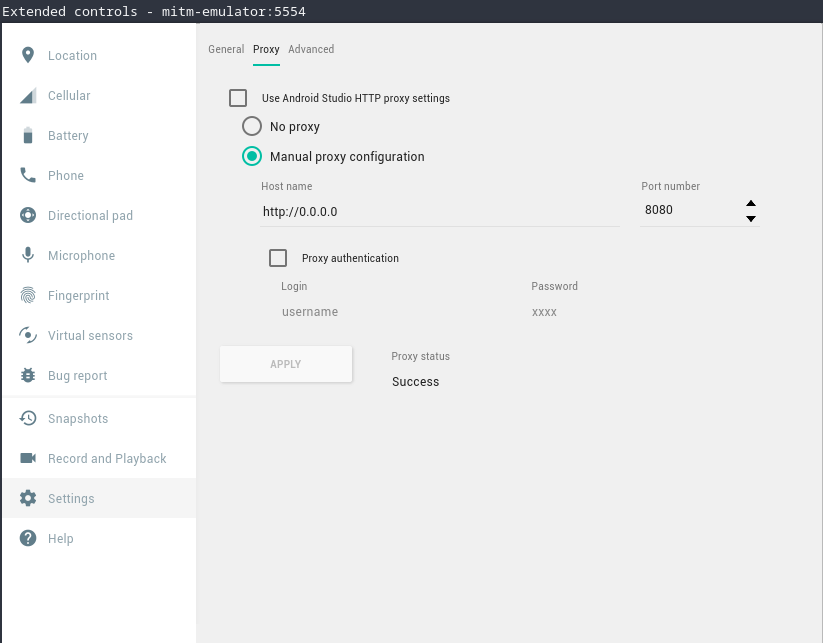
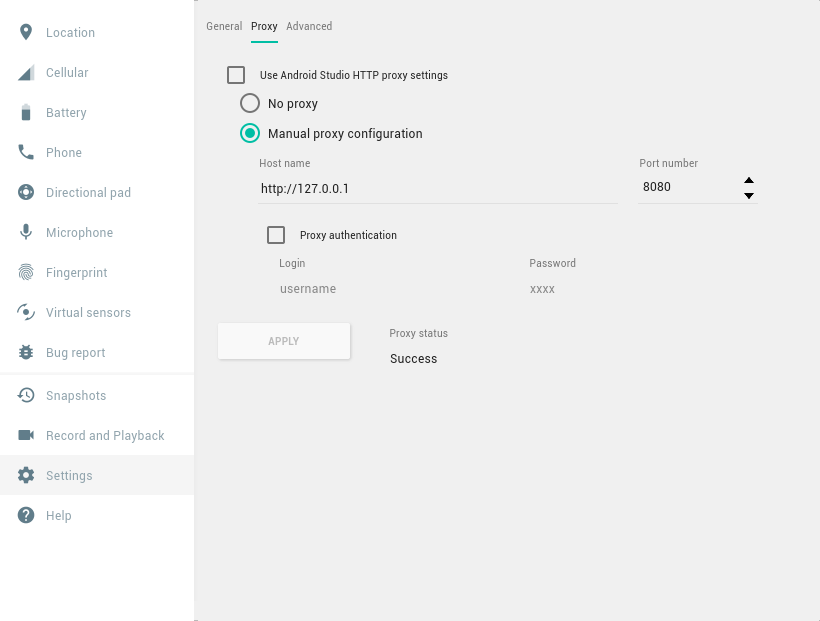
Add MITM drawing, fix wrong IP, final writing fixes

diff --git a/posts/reverse-engineer-android-app-api.html b/posts/reverse-engineer-android-app-api.html
@@ -124,10 +124,10 @@
 </blockquote>
 <p>Normally we can’t see the traffic coming out of an App. It’s <strong>encrypted</strong>, and therefore it looks like random garbage to us. This keeps your information safe, at least during the transaction (what each ends does with the information and how they protect it is a different matter).</p>
 <p>You might have heard about <strong>digital certificates</strong>. They are what make this encryption possible, and in order to know what certificates you can trust or not your devices depend on a <strong>Certificate Authority</strong> (CA). These are actors that can create digital certificates</p>
-<p>But anyone can <em>be</em> a CA, or they can create one at least, so how do we know which CAs can we trust or not? Usually, your devices/applications come with a hardcoded set of CAs that they trust by default. This is a <em>good enough</em> measure that <em>mostly works</em>, although these CAs then become very high value targets for hackers and you can believe some have been compromised before.</p>
+<p>But anyone can <em>be</em> a CA, or they can create one at least, so how do we know which CAs can we trust or not? Usually, your devices/applications come with a hardcoded set of CAs they trust by default. This is a <em>good enough</em> measure that <em>mostly works</em>, although these CAs then become very high value targets for hackers and you can believe some have been compromised before.</p>
 <p>So, back to our little project. We want to be able to snoop into what our target app and their backend are talking about. In order to do that, we are going to force an Android emulator into sending all its network traffic through us and then make it think it can trust us. How we will do that is by installing our own certificate as one of those default CAs. This way, we will be able to understand the encrypted HTTPS messages any app sends and receives. This is what is known as a <strong>“Man in the Middle attack”</strong> (MITM) in cyber-security.</p>
 <figure>
-<img src="" alt="Drawing of man in the middle" /><figcaption aria-hidden="true">Drawing of man in the middle</figcaption>
+<img src="https://edearth.github.io/imgs/reveng/mitm_diagram.jpg" alt="Drawing of man in the middle attack" /><figcaption aria-hidden="true">Drawing of man in the middle attack</figcaption>
 </figure>
 <p>When we are able to understand what app and backend are saying to each other, we will begin investigating the now exposed API. If we’re lucky, we might even have the chance to automate our daily app usage into a script. That way we won’t even have to open the app again.</p>
 <p>This post will be split in 3 parts:</p>
@@ -140,8 +140,8 @@
 <h3 id="install-the-tools">Install the tools</h3>
 <p>If you don’t have the Android platform tools, we will install them now. I’m using Arch, so I will use these AUR packages:</p>
 <ul>
-<li>[https://aur.archlinux.org/android-sdk.git]</li>
-<li>[https://aur.archlinux.org/android-sdk-platform-tools.git]</li>
+<li><a href="https://aur.archlinux.org/android-sdk.git">https://aur.archlinux.org/android-sdk.git</a></li>
+<li><a href="https://aur.archlinux.org/android-sdk-platform-tools.git">https://aur.archlinux.org/android-sdk-platform-tools.git</a></li>
 </ul>
 <p>You can install them like:</p>
 <div class="sourceCode" id="cb1"><pre class="sourceCode sh"><code class="sourceCode bash"><span id="cb1-1"><a href="#cb1-1" aria-hidden="true"></a><span class="fu">git</span> clone https://aur.archlinux.org/android-sdk.git</span>
@@ -157,7 +157,7 @@
 <div class="sourceCode" id="cb3"><pre class="sourceCode sh"><code class="sourceCode bash"><span id="cb3-1"><a href="#cb3-1" aria-hidden="true"></a><span class="ex">brew</span> tap caskroom/cask</span>
 <span id="cb3-2"><a href="#cb3-2" aria-hidden="true"></a><span class="ex">brew</span> cask install android-sdk</span></code></pre></div>
 <h3 id="install-the-system-image">Install the system image</h3>
-<p>Once we have the tools we need, we can download the system image. Since we want to download an app from the Play Store, we will need that the image we use includes the Google API. We want to find a an image containing “google_apis”, but not “google_apis_playstore”. Why not get the one that comes with the Play Store pre-installed, you ask? Well, those are production builds and we won’t be able to root them. We will need rooting them later.</p>
+<p>Once we have the tools we need, we can download the system image. Since we want to download an app from the Play Store, we will need that the image we use includes the Google API. We want to find a an image containing “google_apis”, but not “google_apis_playstore”. Why not get the one that comes with the Play Store pre-installed, you ask? Well, those are production builds and we won’t be able to root them. We will need rooting our emulator later.</p>
 <p>I chose the “android-25” one, but you can choose another one if you want.</p>
 <div class="sourceCode" id="cb4"><pre class="sourceCode bash"><code class="sourceCode bash"><span id="cb4-1"><a href="#cb4-1" aria-hidden="true"></a><span class="ex">sdkmanager</span> --list <span class="kw">|</span> <span class="fu">grep</span> <span class="st">&quot;google_apis&quot;</span> <span class="co">#select another image from this list if you want</span></span>
 <span id="cb4-2"><a href="#cb4-2" aria-hidden="true"></a><span class="fu">sudo</span> sdkmanager --install <span class="st">&quot;system-images;android-25;google_apis;x86_64&quot;</span></span></code></pre></div>
@@ -167,7 +167,7 @@
 <p>And open it with:</p>
 <div class="sourceCode" id="cb6"><pre class="sourceCode bash"><code class="sourceCode bash"><span id="cb6-1"><a href="#cb6-1" aria-hidden="true"></a><span class="ex">emulator</span> -avd mitm-emulator <span class="kw">&amp;</span></span></code></pre></div>
 <h3 id="installing-google-play">Installing Google Play</h3>
-<p>Download Open GApps for your system image from [https://opengapps.org/]. We will need them to download the target app from the Play Store. We can extract it with:</p>
+<p>Download Open GApps for your system image from <a href="https://opengapps.org/">https://opengapps.org/</a>. We will need them to download the target app from the Play Store. We can extract it with:</p>
 <div class="sourceCode" id="cb7"><pre class="sourceCode bash"><code class="sourceCode bash"><span id="cb7-1"><a href="#cb7-1" aria-hidden="true"></a><span class="fu">unzip</span> open_gapps-*.zip <span class="st">&#39;Core/*&#39;</span></span>
 <span id="cb7-2"><a href="#cb7-2" aria-hidden="true"></a><span class="fu">rm</span> Core/setup*</span>
 <span id="cb7-3"><a href="#cb7-3" aria-hidden="true"></a><span class="ex">lzip</span> -d Core/*.lz</span>
@@ -188,7 +188,7 @@
 <span id="cb10-2"><a href="#cb10-2" aria-hidden="true"></a><span class="ex">adb</span> shell start</span></code></pre></div>
 <p>After the loading finishes, you will see the Play Store in your home screen.</p>
 <h3 id="install-the-target-app">Install the target app</h3>
-<p>This should be the easiest step. Just login to the Play Store and download your target app.</p>
+<p>This should be the easiest step. Just log into the Play Store and download the target app.</p>
 <p>Make sure you can open it before proceeding.</p>
 <h2 id="setting-up-the-proxy">Setting up the proxy</h2>
 <h3 id="install-mitm-proxy">Install MITM proxy</h3>
@@ -198,19 +198,19 @@
 <p>It seems on Ubuntu you will need to install pip and then install mitmproxy using it.</p>
 <div class="sourceCode" id="cb12"><pre class="sourceCode bash"><code class="sourceCode bash"><span id="cb12-1"><a href="#cb12-1" aria-hidden="true"></a><span class="fu">sudo</span> apt install python3-pip</span>
 <span id="cb12-2"><a href="#cb12-2" aria-hidden="true"></a><span class="fu">sudo</span> pip3 install mitmproxy</span></code></pre></div>
-<p>On Mac, just use brew again:</p>
+<p>On Mac, just use Brew again:</p>
 <div class="sourceCode" id="cb13"><pre class="sourceCode bash"><code class="sourceCode bash"><span id="cb13-1"><a href="#cb13-1" aria-hidden="true"></a><span class="ex">brew</span> install mitmproxy</span></code></pre></div>
-<p>To test it out, let’s start the emulator and open its settings by clicking on the 3 dots button. Then, navigate to the <strong>settings</strong> section, select the <strong>Proxy tab</strong> and configure to use <code>http://0.0.0.0:8080</code> as a proxy, like in the image below.</p>
+<p>To test it out, let’s start the emulator and open its settings by clicking on the 3 dots button. Then, navigate to the <strong>settings</strong> section, select the <strong>Proxy tab</strong> and configure it to use <code>http://127.0.0.1:8080</code> as a proxy, like in the image below.</p>
 <figure>
-<img src="https://edearth.github.io/imgs/reveng/emulator_proxy_config.png" alt="a screenshot shows the emulator proxy configured to use http://0.0.0.0:8080" /><figcaption aria-hidden="true">a screenshot shows the emulator proxy configured to use http://0.0.0.0:8080</figcaption>
+<img src="https://edearth.github.io/imgs/reveng/emulator_proxy_config.png" alt="a screenshot shows the emulator proxy configured to use http://127.0.0.1:8080" /><figcaption aria-hidden="true">a screenshot shows the emulator proxy configured to use http://127.0.0.1:8080</figcaption>
 </figure>
-<p>Run mitmproxy with no arguments in a terminal, like this:</p>
-<div class="sourceCode" id="cb14"><pre class="sourceCode bash"><code class="sourceCode bash"><span id="cb14-1"><a href="#cb14-1" aria-hidden="true"></a><span class="ex">mitmproxy</span></span></code></pre></div>
+<p>Run mitmproxy listening in 127.0.0.1:8080 in a terminal, like this:</p>
+<div class="sourceCode" id="cb14"><pre class="sourceCode bash"><code class="sourceCode bash"><span id="cb14-1"><a href="#cb14-1" aria-hidden="true"></a><span class="ex">mitmproxy</span> --listen-host 127.0.0.1 --listen-port 8080</span></code></pre></div>
 <p>We can now go back to the emulator and navigate anywhere. You will see it’s almost as if your device lost connection, and if you try to use a web browser, a warning about your connection not being private will appear.</p>
 <figure>
 <img src="https://edearth.github.io/imgs/reveng/mitm_no_cert00.png" height="400" alt="a screenshot shows chrome browser warning the user its connection is not private" /><figcaption aria-hidden="true">a screenshot shows chrome browser warning the user its connection is not private</figcaption>
 </figure>
-<p>This happens because mitmproxy signs HTTPS traffic with its own certificate. (note: i need to double check this //TODO ) Since the emulator doesn’t trust that certificate (yet), it won’t even accept that response! If you go to the terminal where you launched mitmproxy, you should see something like this. Notice all the traffic is HTTP, there are no HTTPS messages.</p>
+<p>This happens because mitmproxy signs HTTPS traffic with its own certificate. Since the emulator doesn’t trust that certificate (yet), it won’t even accept that response! If you go to the terminal where you launched mitmproxy, you should see something like this. Notice all the traffic is HTTP, there are no HTTPS messages.</p>
 <figure>
 <img src="https://edearth.github.io/imgs/reveng/mitm_no_cert01.png" alt="a screenshot shows a get request to http google, redirected to https" /><figcaption aria-hidden="true">a screenshot shows a get request to http google, redirected to https</figcaption>
 </figure>
@@ -219,9 +219,9 @@
 </figure>
 <p>To continue, we will need to make the emulator trust mitmproxy’s Certificate Authority.</p>
 <h3 id="install-the-certificate-authority">Install the Certificate Authority</h3>
-<p>The way mitmproxy works is it has its own Certificate Authority. It uses it to generate certificates on the fly for whatever external resource the emulator asks for. It then uses those certificates to encrypt the messages sent to it, making it seem like the emulator is talking with the real server. In reality, though, it is decrypting and encrypting all the messages, so it knows <strong>everything</strong> the client and server are talking about. And neither of them knows it is spying on them.</p>
-<p>If you read the documentation for mitmproxy you will see there are official instructions on how to install the certificate on mobile devices: you visit “<code>mitm.it</code>” in the browser, download the certificate and install it. Then you can see HTTPS traffic normally… but just in the browser.</p>
-<p>If we want to read HTTPS traffic from native apps, we need to install it as a <strong>system certificate</strong>. We will need root privileges for that. So we will launch the emulator specifying:</p>
+<p>The way mitmproxy works is it has its own Certificate Authority. It uses it to generate certificates on the fly for whatever external resource the emulator asks for. It then uses those certificates to encrypt the messages sent to it, making it seem like the emulator is talking with the real server. In reality, though, it is decrypting and encrypting all the messages with its own certificates, so it knows <strong>everything</strong> the client and server are talking about. And neither of them knows it is spying on them.</p>
+<p>If you read the documentation for mitmproxy you will see there are official instructions on how to install the certificate on mobile devices: you visit “<code>mitm.it</code>” in the browser, download the certificate and install it. Then you can see decrypted HTTPS traffic in mitmproxy… but just the traffic generated by the browser.</p>
+<p>If we want to read HTTPS traffic from native apps, we need to install it as a <strong>system certificate</strong>. We will need root privileges for that, so we will launch the emulator specifying:</p>
 <div class="sourceCode" id="cb15"><pre class="sourceCode bash"><code class="sourceCode bash"><span id="cb15-1"><a href="#cb15-1" aria-hidden="true"></a><span class="ex">emulator</span> -avd mitm-emulator -writable-system <span class="kw">&amp;</span></span>
 <span id="cb15-2"><a href="#cb15-2" aria-hidden="true"></a><span class="ex">adb</span> root</span>
 <span id="cb15-3"><a href="#cb15-3" aria-hidden="true"></a><span class="ex">adb</span> remount</span></code></pre></div>
@@ -229,7 +229,7 @@
 <div class="sourceCode" id="cb16"><pre class="sourceCode bash"><code class="sourceCode bash"><span id="cb16-1"><a href="#cb16-1" aria-hidden="true"></a><span class="va">CA=</span>~/.mitmproxy/mitmproxy-ca-cert.pem</span></code></pre></div>
 <p>We just need to copy that file into the emulator’s trusted CAs folder, but it needs to be named with a special value. The filename must be the hash of the certificate itself. You can calculate it with the following command:</p>
 <div class="sourceCode" id="cb17"><pre class="sourceCode bash"><code class="sourceCode bash"><span id="cb17-1"><a href="#cb17-1" aria-hidden="true"></a><span class="va">HASH=$(</span><span class="ex">openssl</span> x509 -noout -subject_hash_old -in <span class="st">&quot;</span><span class="va">$CA</span><span class="st">&quot;</span><span class="va">)</span></span></code></pre></div>
-<p>But since mitmproxy uses the same default certificate everywhere, we know the value should be <code>c8750f0d</code>, so you can skip this step and just use that value. You can always come back and use that line to recalculate the value if it doesn’t work 😛</p>
+<p>But since mitmproxy uses the same default certificate everywhere, we know the value should be <code>c8750f0d</code>, so you can skip this step and just use that value. You can always come back and use the previous line to recalculate the value if it doesn’t work 😛</p>
 <p>So you can just do:</p>
 <div class="sourceCode" id="cb18"><pre class="sourceCode bash"><code class="sourceCode bash"><span id="cb18-1"><a href="#cb18-1" aria-hidden="true"></a><span class="ex">adb</span> push <span class="st">&quot;</span><span class="va">$CA</span><span class="st">&quot;</span> /system/etc/security/cacerts/c8750f0d.0</span></code></pre></div>
 <p>If you try to load a website now, it should load correctly and you should see traffic being detected by mitmproxy. Moreover, if you try to open the target app, you should see its traffic too! Congratulations!</p>
@@ -237,7 +237,7 @@
 <div class="sourceCode" id="cb19"><pre class="sourceCode bash"><code class="sourceCode bash"><span id="cb19-1"><a href="#cb19-1" aria-hidden="true"></a><span class="ex">adb</span> unroot</span></code></pre></div>
 <h2 id="exploitation">Exploitation</h2>
 <h3 id="investigating-the-api">Investigating the API</h3>
-<p>To begin, let’s just use the app normally. Create an account with username and password (avoid authenticating with Google or Facebook for now, you don’t want to deal with OAuth). Log in, search and browse some items… We just want to generate some HTTP traffic so that we can inspect it later.</p>
+<p>To begin, let’s just use the app normally. Create an account with username and password (avoid authenticating with Google or Facebook for now, you don’t want to have to deal with OAuth). Log in, search and browse some items… We just want to generate some traffic so that we can inspect it later.</p>
 <p>Now we can go back to our terminal and check the messages mitmproxy caught. We have to locate the traffic from the target app. To do so, just browse the captured requests list and see if any URL matches the app’s domain. Alternatively, you could look for endpoints that match actions you performed (like a login, search, etc.).</p>
 <p>If you’re lucky, your target API will use a human-readable document format like JSON or XML, instead of protobuf. We are lucky and 2good2go uses JSON.</p>
 <figure>
@@ -245,24 +245,24 @@
 </figure>
 <p>This means we can easily replicate that request in the terminal.</p>
 <p>Enter <code>w</code>. You will enter export mode. If you then type <code>export.clip curl @focus</code>, your request will be replicated as a curl command and it will be copied to your clipboard. You can then paste it on your terminal to see if it works.</p>
-<p>For my particular case I had to perform 2 changes for it to work:</p>
+<p>For my particular case I had to make 2 changes for it to work:</p>
 <ul>
 <li>Remove the <code>:authority</code> pseudo-header that looked like <code>-H ':authority: domainname.com'</code>.</li>
 <li>Change the IP address for it’s domain name in the URL (<code>https://1.2.3.4/v1/endpoint</code> =&gt; <code>https://domainname.com/v1/endpoint</code>).</li>
 </ul>
 <h3 id="automating-queries">Automating queries</h3>
-<p>From this point on, it’s just like a matter of exploring and seeing what can you do with the endpoints you discover. It’s just like learning a regular API.</p>
+<p>From this point on, it’s just a matter of exploring and seeing what can you do with the endpoints you discover. It’s just like learning any regular new API.</p>
 <p>For example, I wanted to automate a search for a restaurant. It has to be near me (&lt;1km), it cannot be a bakery and I just want to know the name, price and pickup time.</p>
 <div class="sourceCode" id="cb20"><pre class="sourceCode bash"><code class="sourceCode bash"><span id="cb20-1"><a href="#cb20-1" aria-hidden="true"></a><span class="kw">function</span><span class="fu"> get_store_list()</span> <span class="kw">{</span></span>
 <span id="cb20-2"><a href="#cb20-2" aria-hidden="true"></a>  <span class="ex">curl</span> https://x.x.x.x/get_store_list?...</span>
 <span id="cb20-3"><a href="#cb20-3" aria-hidden="true"></a><span class="kw">}</span></span>
 <span id="cb20-4"><a href="#cb20-4" aria-hidden="true"></a></span>
 <span id="cb20-5"><a href="#cb20-5" aria-hidden="true"></a><span class="va">result=$(</span><span class="ex">get_store_list</span><span class="kw">\</span></span>
-<span id="cb20-6"><a href="#cb20-6" aria-hidden="true"></a><span class="kw">|</span> <span class="ex">jq</span> <span class="st">&#39;.stores[]&#39;</span> <span class="dt">\ </span># get all stores</span>
+<span id="cb20-6"><a href="#cb20-6" aria-hidden="true"></a><span class="kw">|</span> <span class="ex">jq</span> <span class="st">&#39;.groupings[].items[]&#39;</span> <span class="dt">\ </span># get all stores</span>
 <span id="cb20-7"><a href="#cb20-7" aria-hidden="true"></a><span class="kw">|</span> <span class="ex">jq</span> <span class="st">&#39;select(.distance &lt; 1)&#39;</span> <span class="dt">\ </span># filter out stores further than 1 km away</span>
-<span id="cb20-8"><a href="#cb20-8" aria-hidden="true"></a><span class="kw">|</span> <span class="ex">jq</span> <span class="st">&#39;select(.category != &quot;BAKED_GOODS&quot;)&#39;</span> <span class="dt">\ </span># filter out unwanted store categories</span>
-<span id="cb20-9"><a href="#cb20-9" aria-hidden="true"></a><span class="kw">|</span> <span class="ex">jq</span> <span class="st">&#39;(.store_name + &quot;, &quot;</span></span>
-<span id="cb20-10"><a href="#cb20-10" aria-hidden="true"></a><span class="st">+ (.price.minor_units/100 | tostring) + &quot;€, &quot;</span></span>
+<span id="cb20-8"><a href="#cb20-8" aria-hidden="true"></a><span class="kw">|</span> <span class="ex">jq</span> <span class="st">&#39;select(.item.item_category != &quot;BAKED_GOODS&quot;)&#39;</span> <span class="dt">\ </span># filter out unwanted store categories</span>
+<span id="cb20-9"><a href="#cb20-9" aria-hidden="true"></a><span class="kw">|</span> <span class="ex">jq</span> <span class="st">&#39;(.store.store_name + &quot;, &quot;</span></span>
+<span id="cb20-10"><a href="#cb20-10" aria-hidden="true"></a><span class="st">+ (.item.price.minor_units/100 | tostring) + &quot;€, &quot;</span></span>
 <span id="cb20-11"><a href="#cb20-11" aria-hidden="true"></a><span class="st">+ .pickup_interval.start)&#39;</span> <span class="dt">\ </span># print just the wanted data: store name, price and pickup time</span>
 <span id="cb20-12"><a href="#cb20-12" aria-hidden="true"></a><span class="kw">|</span> <span class="fu">sort</span> <span class="kw">|</span> <span class="fu">uniq</span><span class="va">)</span> # <span class="fu">sort</span> and show only unique results</span>
 <span id="cb20-13"><a href="#cb20-13" aria-hidden="true"></a></span>

diff --git a/posts/reverse-engineer-android-app-api.md b/posts/reverse-engineer-android-app-api.md
@@ -50,7 +50,7 @@ These are actors that can create digital certificates
 
 But anyone can _be_ a CA, or they can create one at least,
 so how do we know which CAs can we trust or not?
-Usually, your devices/applications come with a hardcoded set of CAs that they trust by default.
+Usually, your devices/applications come with a hardcoded set of CAs they trust by default.
 This is a _good enough_ measure that _mostly works_,
 although these CAs then become very high value targets for hackers
 and you can believe some have been compromised before.
@@ -64,7 +64,7 @@ How we will do that is by installing our own certificate as one of those default
 This way, we will be able to understand the encrypted HTTPS messages any app sends and receives.
 This is what is known as a **"Man in the Middle attack"** (MITM) in cyber-security.
 
-![Drawing of man in the middle]()
+![Drawing of man in the middle attack]($BASE_URL$/imgs/reveng/mitm_diagram.jpg)
 
 When we are able to understand what app and backend are saying to each other,
 we will begin investigating the now exposed API.
@@ -84,8 +84,8 @@ This post will be split in 3 parts:
 If you don't have the Android platform tools, we will install them now.
 I'm using Arch, so I will use these AUR packages:
 
-* [https://aur.archlinux.org/android-sdk.git]
-* [https://aur.archlinux.org/android-sdk-platform-tools.git]
+* [https://aur.archlinux.org/android-sdk.git](https://aur.archlinux.org/android-sdk.git)
+* [https://aur.archlinux.org/android-sdk-platform-tools.git](https://aur.archlinux.org/android-sdk-platform-tools.git)
 
 You can install them like:
 
@@ -121,7 +121,7 @@ we will need that the image we use includes the Google API.
 We want to find a an image containing "google\_apis", but not "google\_apis\_playstore".
 Why not get the one that comes with the Play Store pre-installed, you ask?
 Well, those are production builds and we won't be able to root them.
-We will need rooting them later.
+We will need rooting our emulator later.
 
 I chose the "android-25" one, but you can choose another one if you want.
 
@@ -146,7 +146,7 @@ emulator -avd mitm-emulator &
 
 ### Installing Google Play
 
-Download Open GApps for your system image from [https://opengapps.org/].
+Download Open GApps for your system image from [https://opengapps.org/](https://opengapps.org/).
 We will need them to download the target app from the Play Store.
 We can extract it with:
 
@@ -190,7 +190,7 @@ After the loading finishes, you will see the Play Store in your home screen.
 ### Install the target app
 
 This should be the easiest step.
-Just login to the Play Store and download your target app.
+Just log into the Play Store and download the target app.
 
 Make sure you can open it before proceeding.
 
@@ -215,7 +215,7 @@ sudo apt install python3-pip
 sudo pip3 install mitmproxy
 ```
 
-On Mac, just use brew again:
+On Mac, just use Brew again:
 
 ```bash
 brew install mitmproxy
@@ -225,15 +225,15 @@ To test it out, let's start the emulator
 and open its settings by clicking on the 3 dots button.
 Then, navigate to the **settings** section,
 select the **Proxy tab**
-and configure to use `http://0.0.0.0:8080` as a proxy,
+and configure it to use `http://127.0.0.1:8080` as a proxy,
 like in the image below.
 
-![a screenshot shows the emulator proxy configured to use http://0.0.0.0:8080]($BASE_URL$/imgs/reveng/emulator_proxy_config.png)
+![a screenshot shows the emulator proxy configured to use http://127.0.0.1:8080]($BASE_URL$/imgs/reveng/emulator_proxy_config.png)
 
-Run mitmproxy with no arguments in a terminal, like this:
+Run mitmproxy listening in 127.0.0.1:8080 in a terminal, like this:
 
 ```bash
-mitmproxy
+mitmproxy --listen-host 127.0.0.1 --listen-port 8080
 ```
 
 We can now go back to the emulator and navigate anywhere.
@@ -243,7 +243,7 @@ a warning about your connection not being private will appear.
 
 ![a screenshot shows chrome browser warning the user its connection is not private]($BASE_URL$/imgs/reveng/mitm_no_cert00.png){ height=400px }
 
-This happens because mitmproxy signs HTTPS traffic with its own certificate. (note: i need to double check this //TODO )
+This happens because mitmproxy signs HTTPS traffic with its own certificate.
 Since the emulator doesn't trust that certificate (yet), it won't even accept that response!
 If you go to the terminal where you launched mitmproxy, you should see something like this.
 Notice all the traffic is HTTP, there are no HTTPS messages.
@@ -261,19 +261,20 @@ It uses it to generate certificates on the fly for whatever
 external resource the emulator asks for.
 It then uses those certificates to encrypt the messages sent to it,
 making it seem like the emulator is talking with the real server.
-In reality, though, it is decrypting and encrypting all the messages,
+In reality, though, it is decrypting and encrypting all the messages with its own certificates,
 so it knows **everything** the client and server are talking about.
 And neither of them knows it is spying on them.
 
 If you read the documentation for mitmproxy you will see there are
 official instructions on how to install the certificate on mobile devices:
 you visit "`mitm.it`" in the browser, download the certificate and install it.
-Then you can see HTTPS traffic normally... but just in the browser.
+Then you can see decrypted HTTPS traffic in mitmproxy...
+but just the traffic generated by the browser.
 
 If we want to read HTTPS traffic from native apps,
 we need to install it as a **system certificate**.
-We will need root privileges for that.
-So we will launch the emulator specifying:
+We will need root privileges for that,
+so we will launch the emulator specifying:
 
 ```bash
 emulator -avd mitm-emulator -writable-system &
@@ -300,7 +301,7 @@ HASH=$(openssl x509 -noout -subject_hash_old -in "$CA")
 
 But since mitmproxy uses the same default certificate everywhere,
 we know the value should be `c8750f0d`, so you can skip this step and just use that value.
-You can always come back and use that line to recalculate the value if it doesn't work 😛
+You can always come back and use the previous line to recalculate the value if it doesn't work 😛
 
 So you can just do:
 
@@ -325,9 +326,9 @@ adb unroot
 To begin, let's just use the app normally.
 Create an account with username and password
 (avoid authenticating with Google or Facebook for now,
-you don't want to deal with OAuth).
+you don't want to have to deal with OAuth).
 Log in, search and browse some items...
-We just want to generate some HTTP traffic
+We just want to generate some traffic
 so that we can inspect it later.
 
 Now we can go back to our terminal
@@ -355,7 +356,7 @@ your request will be replicated as a curl command
 and it will be copied to your clipboard.
 You can then paste it on your terminal to see if it works.
 
-For my particular case I had to perform 2 changes for it to work:
+For my particular case I had to make 2 changes for it to work:
 
 * Remove the `:authority` pseudo-header that looked like `-H ':authority: domainname.com'`.
 * Change the IP address for it's domain name in the URL (`https://1.2.3.4/v1/endpoint` => `https://domainname.com/v1/endpoint`).
@@ -363,10 +364,10 @@ For my particular case I had to perform 2 changes for it to work:
 ### Automating queries
 
 From this point on,
-it's just like a matter of exploring
+it's just a matter of exploring
 and seeing what can you do
 with the endpoints you discover.
-It's just like learning a regular API.
+It's just like learning any regular new API.
 
 For example,
 I wanted to automate a search for a restaurant.
@@ -380,11 +381,11 @@ function get_store_list() {
 }
 
 result=$(get_store_list\
-| jq '.stores[]' \ # get all stores
+| jq '.groupings[].items[]' \ # get all stores
 | jq 'select(.distance < 1)' \ # filter out stores further than 1 km away
-| jq 'select(.category != "BAKED_GOODS")' \ # filter out unwanted store categories
-| jq '(.store_name + ", "
-+ (.price.minor_units/100 | tostring) + "€, "
+| jq 'select(.item.item_category != "BAKED_GOODS")' \ # filter out unwanted store categories
+| jq '(.store.store_name + ", "
++ (.item.price.minor_units/100 | tostring) + "€, "
 + .pickup_interval.start)' \ # print just the wanted data: store name, price and pickup time
 | sort | uniq) # sort and show only unique results
 
